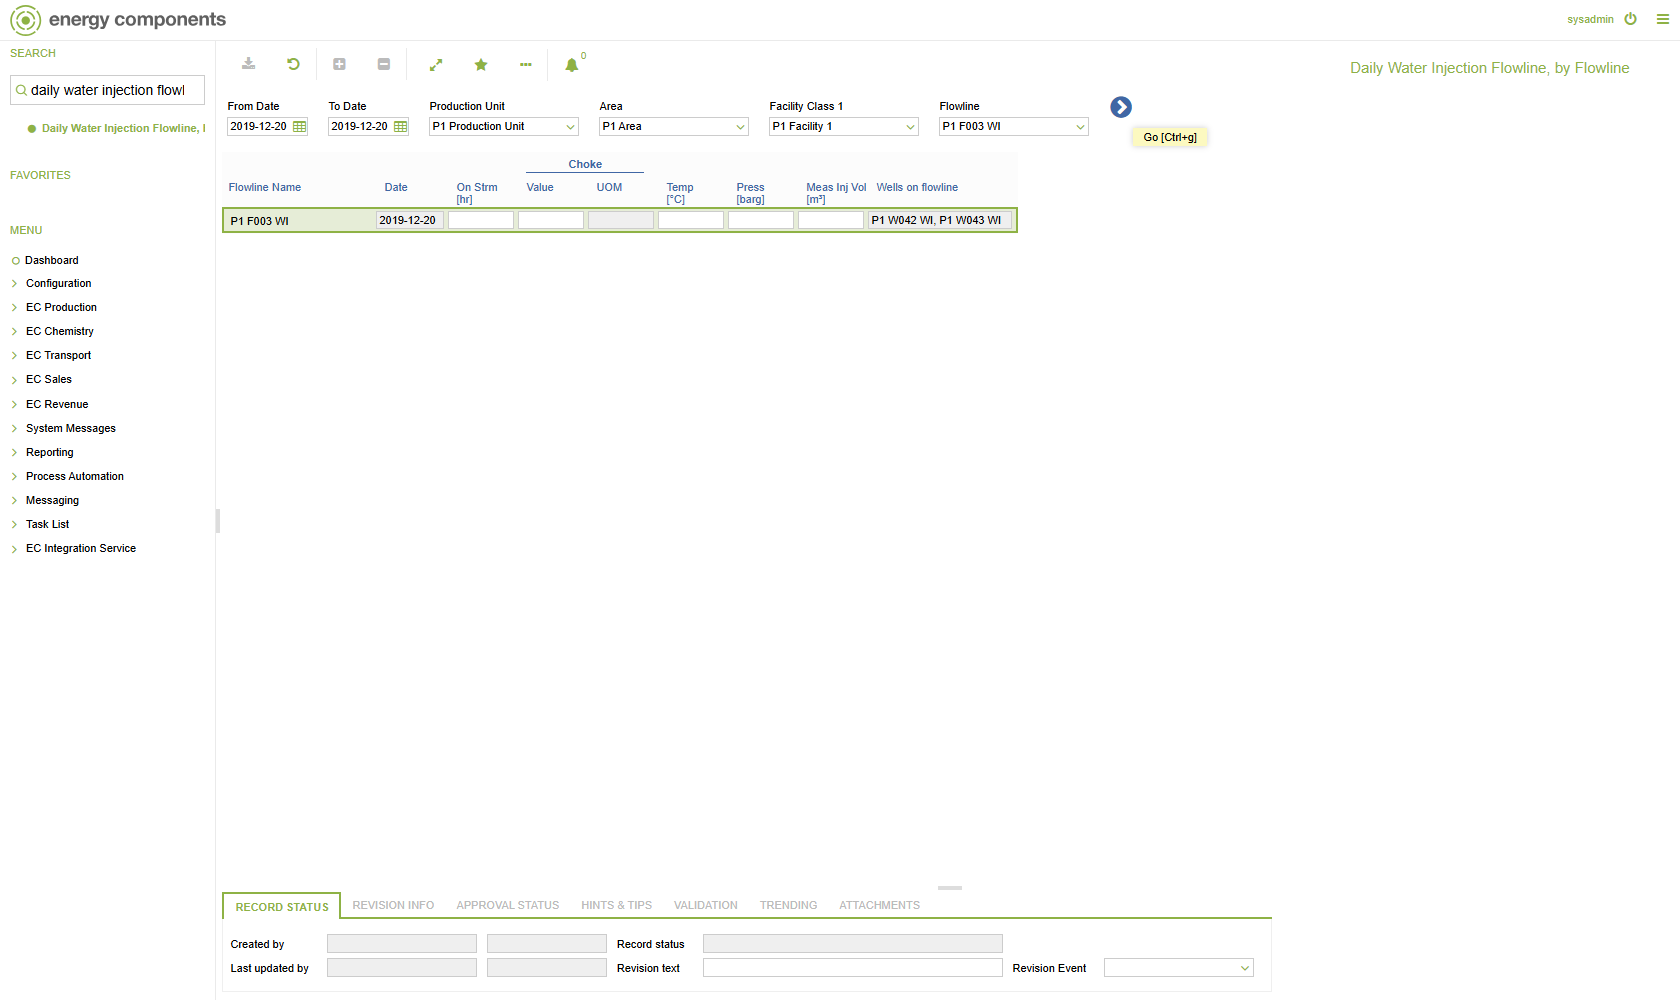
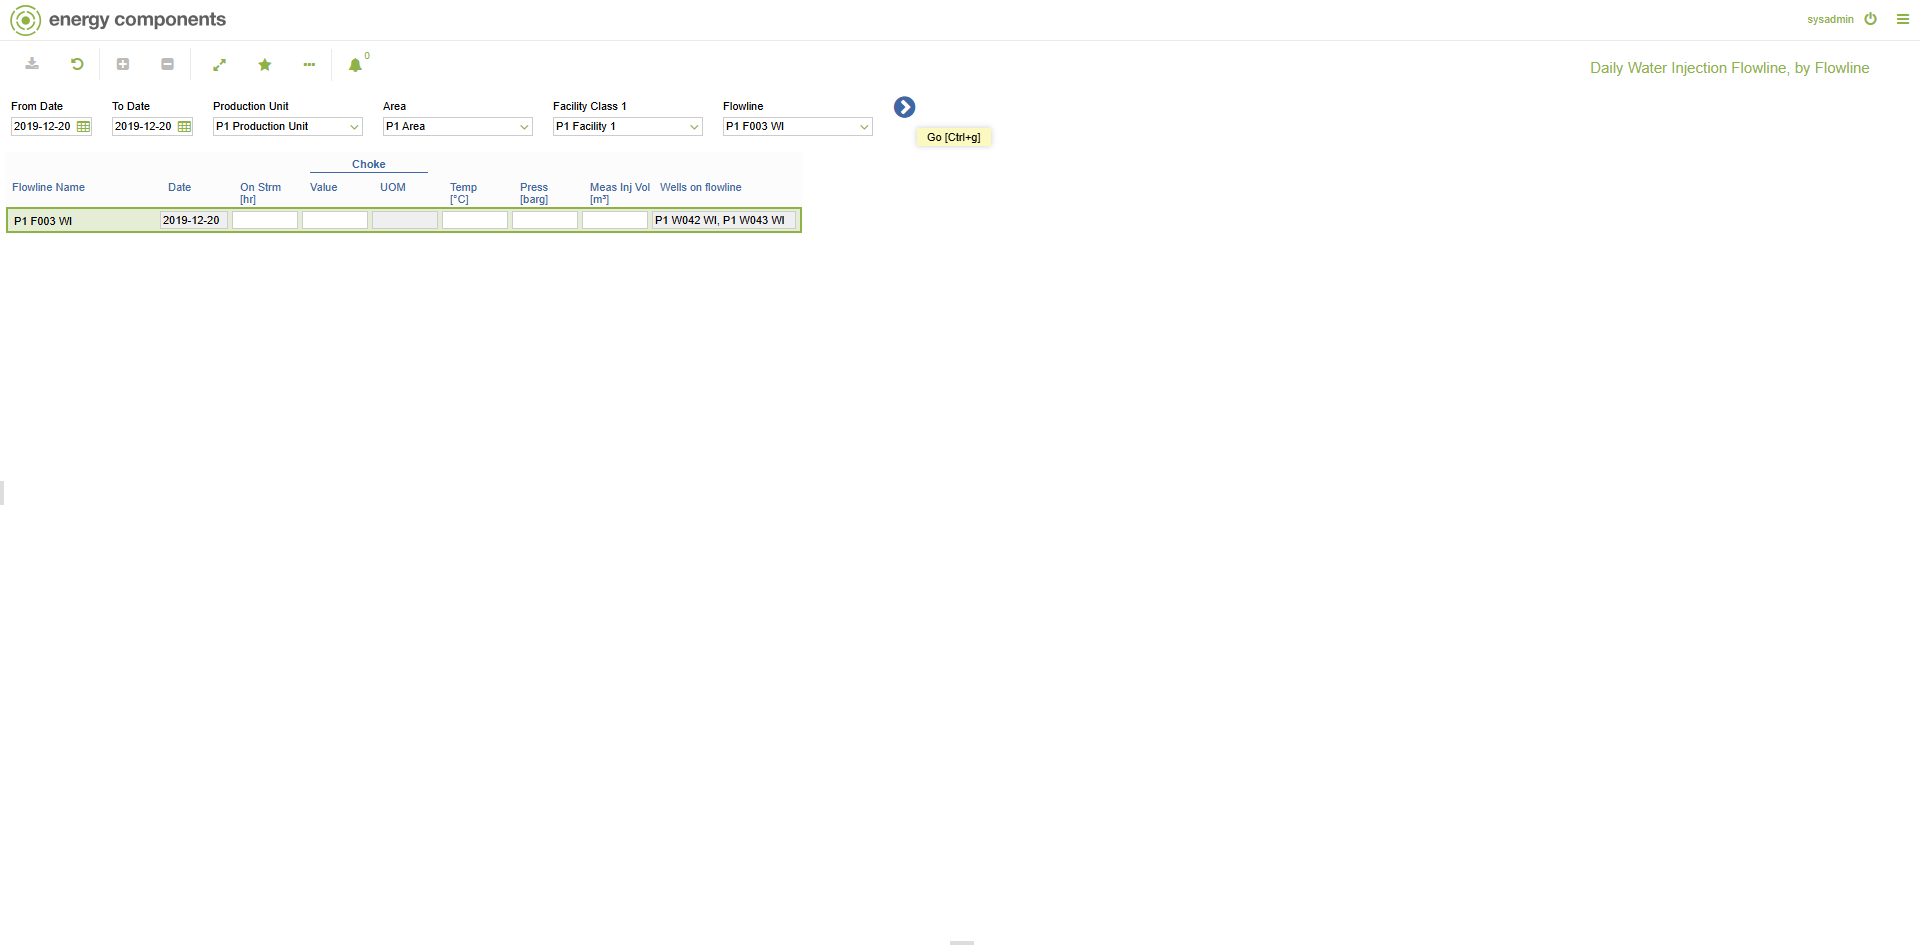
fix(n1): IFLW Playwright prototype — maximise window + expand screen to full page (match Bank/RF)
The freestyle prototype launched with a fixed 1680x1000 viewport and never expanded the screen, so it
ran un-maximised with the treeview still showing. Aligned it to the completed-screen behaviour:
- headed: launch --start-maximized + no fixed viewport (OS-maximised), matching resources/browser.resource.
- after the screen loads: click screenToolbar:form:minmaxMenu to hide the treeview / expand to full page,
  matching resources/screen.resource "Expand Screen To Full Page".
Re-ran headed: still PASS (ON_STREAM_HRS 18 DB-verified, restored NULL); evidence regenerated (treeview
hidden, full-page). The RF suite already did both via the shared T1 keywords — no change needed there.

diff --git a/workstreams/master-plan/ec-automation/screens/EC_Production/Well_and_Reservoir/Daily/Group_Model_-_by_Flowline/Daily_Water_Injection_Flowline/playwright/ec_edit_iflw_water_flowline.py b/workstreams/master-plan/ec-automation/screens/EC_Production/Well_and_Reservoir/Daily/Group_Model_-_by_Flowline/Daily_Water_Injection_Flowline/playwright/ec_edit_iflw_water_flowline.py
@@ -71,8 +71,15 @@ def main():
     oid = flowline_oid()
     print(f"flowline OBJECT_ID={oid}  baseline ON_STREAM_HRS={db_on_stream_hrs(oid)}")
     with sync_playwright() as p:
-        b = p.chromium.launch(headless=not HEADED, slow_mo=400 if HEADED else 0)
-        page = b.new_context(ignore_https_errors=True, viewport={"width": 1680, "height": 1000}).new_page()
+        b = p.chromium.launch(headless=not HEADED, slow_mo=400 if HEADED else 0,
+                              args=["--start-maximized", "--ignore-certificate-errors"])
+        # Headed: OS-maximised window (no fixed viewport) so the page fills the screen — matches the RF
+        # browser.resource. Headless: a large 1920x1080 virtual viewport.
+        ctx = {"ignore_https_errors": True}
+        ctx["no_viewport"] = True if HEADED else None
+        if not HEADED:
+            ctx["viewport"] = {"width": 1920, "height": 1080}
+        page = b.new_context(**{k: v for k, v in ctx.items() if v is not None}).new_page()
         page.goto(EC_URL, wait_until="domcontentloaded", timeout=60000)
         page.fill('[id="username"]', os.environ.get("EC_USER", "sysadmin"))
         page.fill('[id="password"]', os.environ.get("EC_PASS", "sysadmin"))
@@ -81,6 +88,13 @@ def main():
         page.locator('[id="menu:searchForm:searchTxt"]').type(SCREEN, delay=20); time.sleep(1.3)
         page.locator(f'xpath=//*[contains(@class,"tv-link") and normalize-space(text())="{SCREEN}"]').first.click()
         page.wait_for_load_state("networkidle", timeout=30000); time.sleep(2.0)
+        # Expand the loaded screen to full page (hide the treeview) — the min/max toggle in the main
+        # toolbar. Matches the RF screen.resource "Expand Screen To Full Page".
+        try:
+            page.click('[id="screenToolbar:form:minmaxMenu"]', timeout=10000)
+            page.wait_for_load_state("networkidle", timeout=15000); time.sleep(0.6)
+        except Exception as e:
+            print(f"expand-to-full-page skipped: {str(e)[:60]}")
         fr = get_frame(page)
         fr.fill('[id="nav:form:G:0:R:1:C:0:da_input"]', SCOPE["date"])
         fr.fill('[id="nav:form:G:1:R:1:C:0:da_input"]', SCOPE["date"]); time.sleep(0.4)
